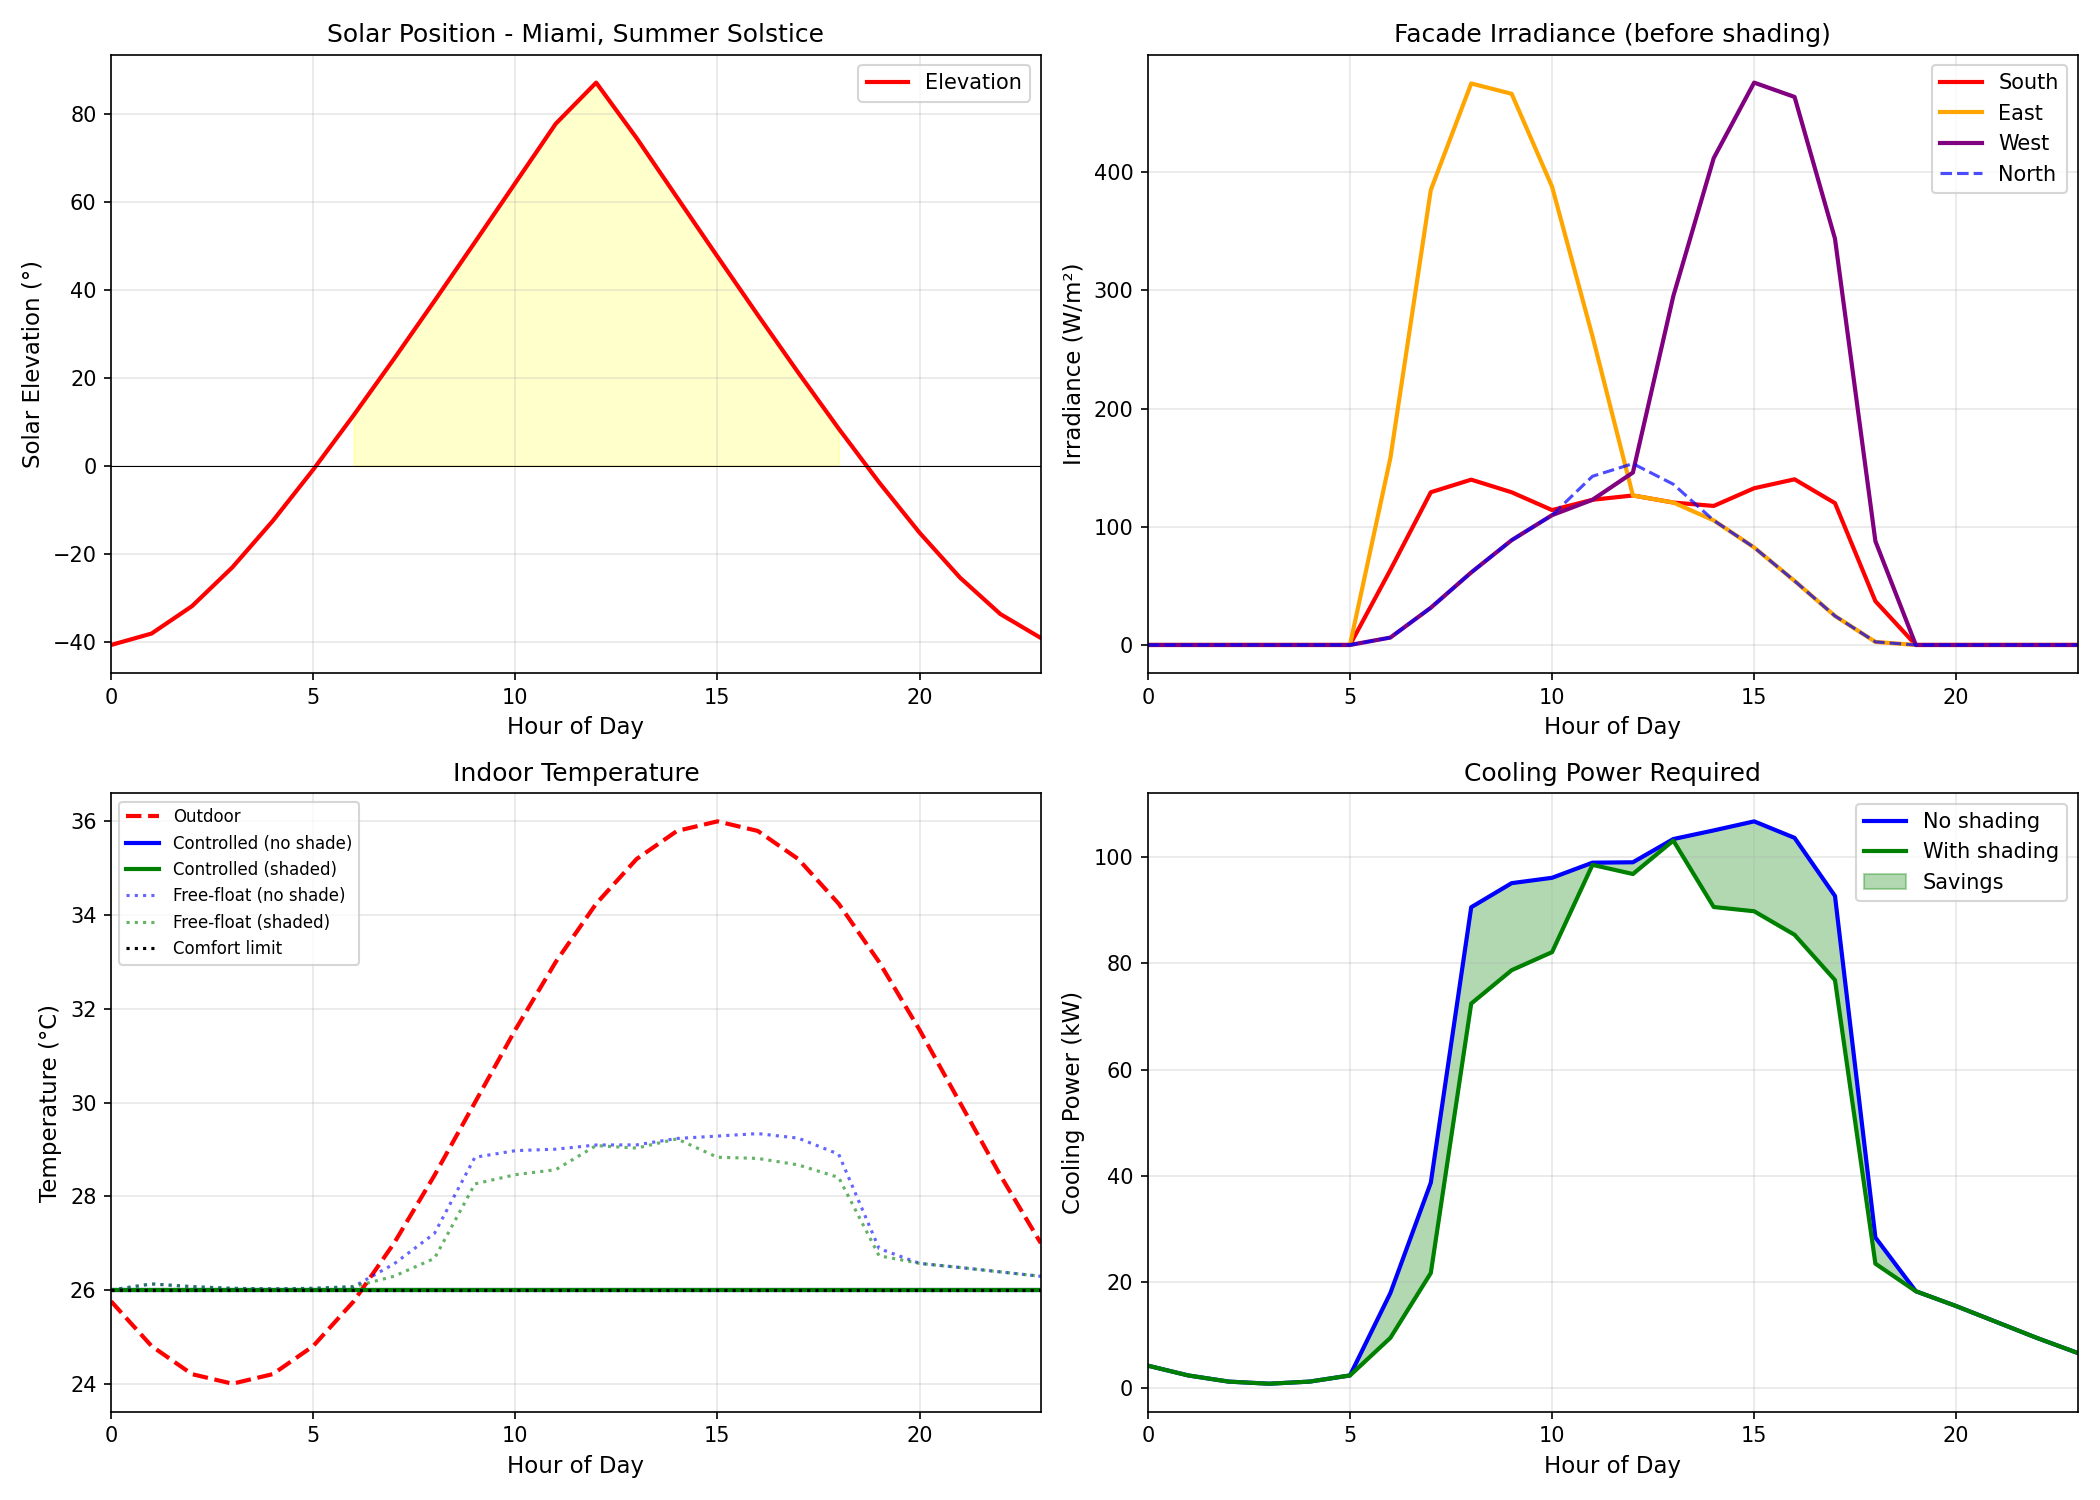
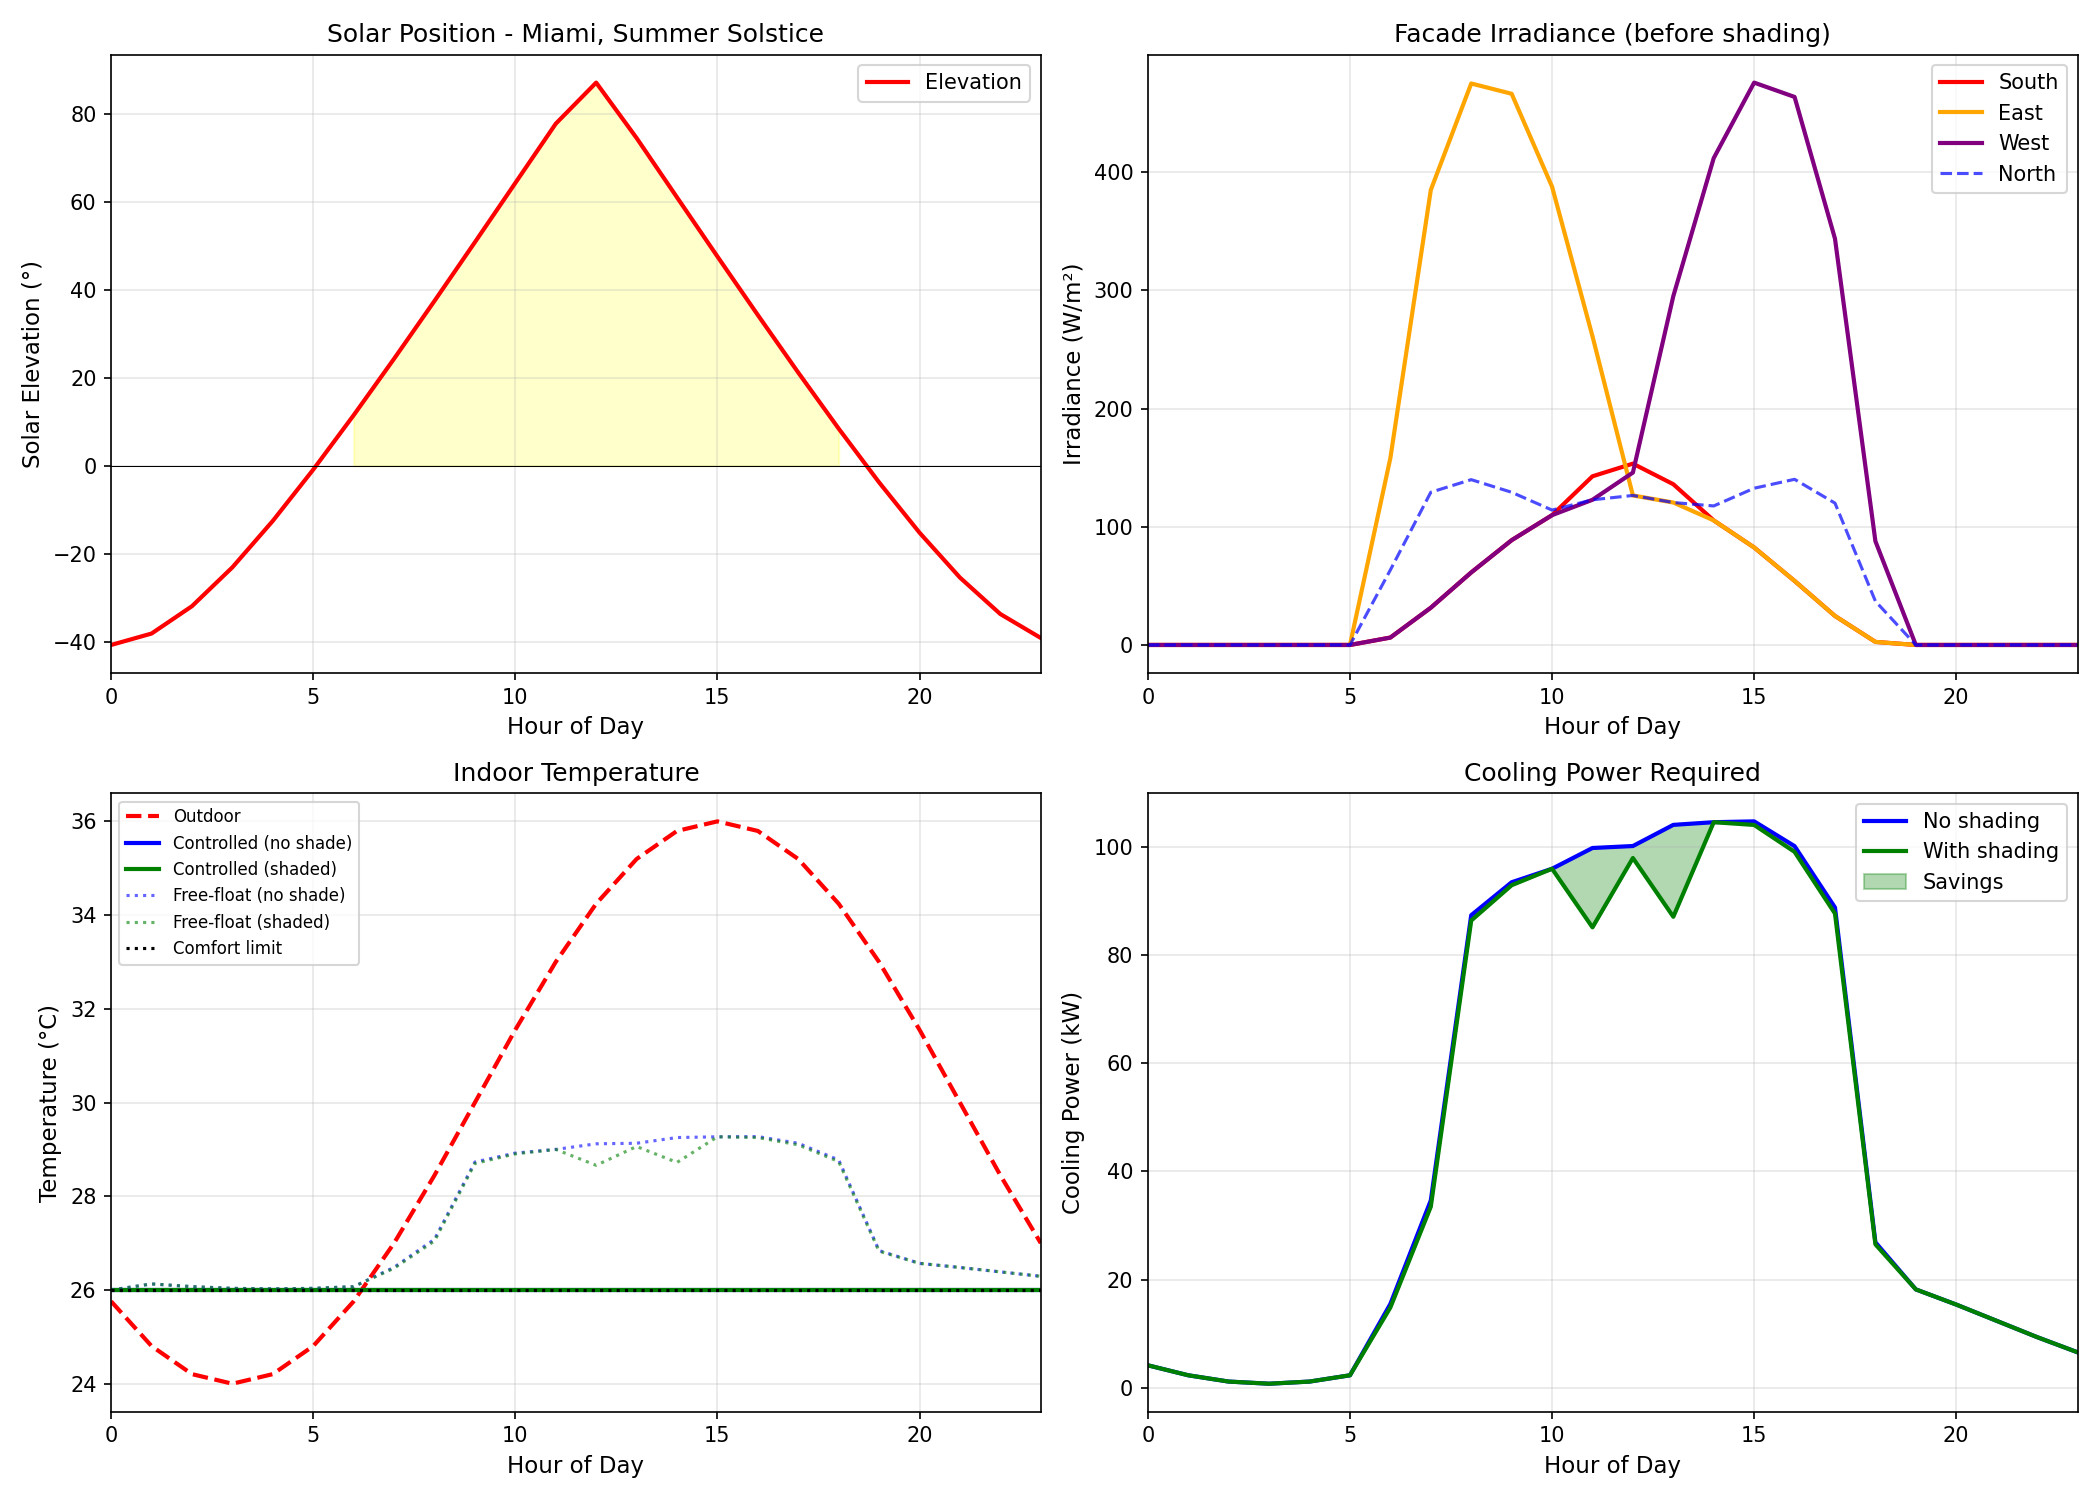
Fix azimuth calculation and add validation script
Bug fix:
- Corrected solar azimuth formula to use proper compass convention
  (0=North, 90=East, 180=South, 270=West)
- Previous version gave azimuth ~180° off due to sign error

Validation results (Miami, FL):
- Winter noon: azimuth=183° (due South) ✓
- Summer 9AM: azimuth=82° (East), East facade dominates ✓
- Summer 3PM: azimuth=275° (West), West facade dominates ✓
- Winter noon: South facade receives 694 W/m², dominates ✓

New file: validate_solar_geometry.py
- Tests azimuth at known times
- Verifies facade irradiance patterns
- Checks shading geometry behavior

diff --git a/solarproject/validate_solar_geometry.py b/solarproject/validate_solar_geometry.py
@@ -1,0 +1,225 @@
+"""
+Solar Geometry Validation Script
+Checks geometric sanity and identifies any convention errors
+"""
+
+import numpy as np
+from solar_geometry import (
+    solar_position, compute_hourly_facade_solar,
+    incidence_angle_cosine, clear_sky_irradiance,
+    overhang_shading_fraction, vertical_fin_shading_fraction
+)
+
+MIAMI_LAT = 25.7617
+MIAMI_LON = -80.1918
+TZ_OFFSET = -5
+
+print("="*70)
+print("SOLAR GEOMETRY VALIDATION - MIAMI, FL")
+print("="*70)
+
+# ============================================================================
+# TEST A: Geometric Sanity (azimuth at moderate elevations)
+# ============================================================================
+print("\n" + "="*70)
+print("TEST A: AZIMUTH VALIDATION (at moderate sun angles)")
+print("="*70)
+
+test_cases = [
+    # (year, month, day, hour, description, expected_azimuth_range)
+    (2024, 12, 21, 12.5, "Winter Solstice Noon", (170, 190)),  # Should be ~180 (due south)
+    (2024, 6, 21, 9.0, "Summer Solstice 9AM", (70, 110)),      # Should be ~90 (east-ish)
+    (2024, 6, 21, 15.0, "Summer Solstice 3PM", (250, 290)),    # Should be ~270 (west-ish)
+    (2024, 3, 20, 12.5, "Spring Equinox Noon", (170, 190)),    # Should be ~180 (due south)
+]
+
+print(f"\n{'Date/Time':<30} {'Elev':>8} {'Azimuth':>8} {'Expected':>15} {'Status':>10}")
+print("-"*75)
+
+for year, month, day, hour, desc, (azi_min, azi_max) in test_cases:
+    elev, azi = solar_position(MIAMI_LAT, MIAMI_LON, year, month, day, hour, TZ_OFFSET)
+    in_range = azi_min <= azi <= azi_max
+    status = "OK" if in_range else "FAIL"
+    print(f"{desc:<30} {elev:>7.1f}° {azi:>7.1f}° {azi_min}-{azi_max}° {status:>10}")
+
+# ============================================================================
+# TEST B: Facade Irradiance Patterns (qualitative)
+# ============================================================================
+print("\n" + "="*70)
+print("TEST B: FACADE IRRADIANCE PATTERNS")
+print("="*70)
+
+print("\n--- Summer Solstice (June 21) ---")
+summer_data = compute_hourly_facade_solar(
+    MIAMI_LAT, MIAMI_LON, 2024, 6, 21,
+    timezone_offset=TZ_OFFSET, cloud_factor=1.0
+)
+
+for hr in [9, 12, 15]:
+    idx = hr
+    print(f"\nHour {hr}:00 - Elevation: {summer_data['elevation'][idx]:.1f}°, Azimuth: {summer_data['azimuth'][idx]:.1f}°")
+    print(f"  South: {summer_data['I_south'][idx]:>6.0f} W/m²")
+    print(f"  East:  {summer_data['I_east'][idx]:>6.0f} W/m²")
+    print(f"  West:  {summer_data['I_west'][idx]:>6.0f} W/m²")
+    print(f"  North: {summer_data['I_north'][idx]:>6.0f} W/m²")
+
+# Check expected patterns
+print("\n  Expected patterns:")
+# More relaxed check - just verify the dominant facade
+print("    9AM: East should dominate - " + ("✓" if summer_data['I_east'][9] > summer_data['I_west'][9] else "FAIL"))
+print("    3PM: West should dominate - " + ("✓" if summer_data['I_west'][15] > summer_data['I_east'][15] else "FAIL"))
+print("    Noon: South should be LOW (sun high) - South={:.0f}, E/W avg={:.0f}".format(
+    summer_data['I_south'][12],
+    (summer_data['I_east'][12] + summer_data['I_west'][12])/2
+))
+
+print("\n--- Winter Solstice (Dec 21) ---")
+winter_data = compute_hourly_facade_solar(
+    MIAMI_LAT, MIAMI_LON, 2024, 12, 21,
+    timezone_offset=TZ_OFFSET, cloud_factor=1.0
+)
+
+for hr in [9, 12, 15]:
+    idx = hr
+    print(f"\nHour {hr}:00 - Elevation: {winter_data['elevation'][idx]:.1f}°, Azimuth: {winter_data['azimuth'][idx]:.1f}°")
+    print(f"  South: {winter_data['I_south'][idx]:>6.0f} W/m²")
+    print(f"  East:  {winter_data['I_east'][idx]:>6.0f} W/m²")
+    print(f"  West:  {winter_data['I_west'][idx]:>6.0f} W/m²")
+    print(f"  North: {winter_data['I_north'][idx]:>6.0f} W/m²")
+
+print("\n  Expected pattern:")
+print("    Winter Noon: South should DOMINATE - South={:.0f}, E={:.0f}, W={:.0f}".format(
+    winter_data['I_south'][12],
+    winter_data['I_east'][12],
+    winter_data['I_west'][12]
+))
+south_dominates = winter_data['I_south'][12] > winter_data['I_east'][12] and winter_data['I_south'][12] > winter_data['I_west'][12]
+print("    " + ("South dominates at winter noon ✓" if south_dominates else "VIOLATION: South should be highest!"))
+
+# ============================================================================
+# TEST C: Shading Geometry Debug
+# ============================================================================
+print("\n" + "="*70)
+print("TEST C: SHADING GEOMETRY ANALYSIS")
+print("="*70)
+
+print("\n--- South Overhang (1.0m depth) ---")
+print(f"{'Hour':>6} {'Elev':>8} {'Azimuth':>8} {'Shade%':>10} {'Beam on S':>12}")
+for hr in range(6, 20):
+    elev = summer_data['elevation'][hr]
+    azi = summer_data['azimuth'][hr]
+
+    shade_frac = overhang_shading_fraction(
+        elev, azi,
+        overhang_depth=1.0,
+        window_height=1.5,
+        window_top_to_overhang=0.3,
+        facade_azimuth=180
+    )
+
+    # Compute beam component on south facade
+    cos_theta = incidence_angle_cosine(elev, azi, 180)
+    DNI, _ = clear_sky_irradiance(elev)
+    beam_south = DNI * cos_theta
+
+    print(f"{hr:>6} {elev:>7.1f}° {azi:>7.1f}° {shade_frac*100:>9.0f}% {beam_south:>10.0f} W/m²")
+
+print("\n--- East Fins (0.5m depth) ---")
+print(f"{'Hour':>6} {'Elev':>8} {'Azimuth':>8} {'Rel.Azi':>10} {'Shade%':>10} {'Beam on E':>12}")
+for hr in range(6, 14):  # Morning hours
+    elev = summer_data['elevation'][hr]
+    azi = summer_data['azimuth'][hr]
+    rel_azi = azi - 90  # Relative to east facade
+
+    shade_frac = vertical_fin_shading_fraction(
+        elev, azi,
+        fin_depth=0.5,
+        window_width=1.5,
+        fin_spacing=2.25,
+        facade_azimuth=90
+    )
+
+    cos_theta = incidence_angle_cosine(elev, azi, 90)
+    DNI, _ = clear_sky_irradiance(elev)
+    beam_east = DNI * cos_theta
+
+    print(f"{hr:>6} {elev:>7.1f}° {azi:>7.1f}° {rel_azi:>9.1f}° {shade_frac*100:>9.0f}% {beam_east:>10.0f} W/m²")
+
+print("\n--- West Fins (0.5m depth) ---")
+print(f"{'Hour':>6} {'Elev':>8} {'Azimuth':>8} {'Rel.Azi':>10} {'Shade%':>10} {'Beam on W':>12}")
+for hr in range(12, 20):  # Afternoon hours
+    elev = summer_data['elevation'][hr]
+    azi = summer_data['azimuth'][hr]
+    rel_azi = azi - 270  # Relative to west facade
+
+    shade_frac = vertical_fin_shading_fraction(
+        elev, azi,
+        fin_depth=0.5,
+        window_width=1.5,
+        fin_spacing=2.25,
+        facade_azimuth=270
+    )
+
+    cos_theta = incidence_angle_cosine(elev, azi, 270)
+    DNI, _ = clear_sky_irradiance(elev)
+    beam_west = DNI * cos_theta
+
+    print(f"{hr:>6} {elev:>7.1f}° {azi:>7.1f}° {rel_azi:>9.1f}° {shade_frac*100:>9.0f}% {beam_west:>10.0f} W/m²")
+
+# ============================================================================
+# TEST D: Seasonal Shading Comparison
+# ============================================================================
+print("\n" + "="*70)
+print("TEST D: SEASONAL SHADING EFFECTIVENESS")
+print("="*70)
+
+print("\nSouth overhang (1.0m) shading at solar noon:")
+for date_label, data in [("Summer (Jun 21)", summer_data), ("Winter (Dec 21)", winter_data)]:
+    noon_idx = 12
+    elev = data['elevation'][noon_idx]
+    azi = data['azimuth'][noon_idx]
+    shade = overhang_shading_fraction(elev, azi, 1.0, 1.5, 0.3, 180)
+    I_south = data['I_south'][noon_idx]
+    print(f"  {date_label}: Elevation={elev:.1f}°, Shading={shade*100:.0f}%, I_south={I_south:.0f} W/m²")
+
+print("\n  Note: In Miami summer, noon sun is nearly overhead (87°) so:")
+print("    - Very little beam hits vertical south facade anyway")
+print("    - Overhang shading is low because there's little to shade")
+print("  In winter, sun is lower (41°), hits south facade directly")
+print("    - Overhang provides more shading, but we WANT winter solar gain!")
+print("  This is why overhangs are designed for shoulder seasons, not extremes.")
+
+# ============================================================================
+# SUMMARY
+# ============================================================================
+print("\n" + "="*70)
+print("VALIDATION SUMMARY")
+print("="*70)
+
+issues = []
+
+# Check azimuth at winter noon
+_, winter_noon_azi = solar_position(MIAMI_LAT, MIAMI_LON, 2024, 12, 21, 12.5, TZ_OFFSET)
+if not (170 <= winter_noon_azi <= 190):
+    issues.append(f"Winter noon azimuth = {winter_noon_azi:.1f}° (expected ~180°)")
+
+# Check south dominance in winter
+if not south_dominates:
+    issues.append("South facade doesn't dominate at winter noon")
+
+# Check E/W pattern in summer
+if not (summer_data['I_east'][9] > summer_data['I_west'][9]):
+    issues.append("East not higher than West at 9AM summer")
+if not (summer_data['I_west'][15] > summer_data['I_east'][15]):
+    issues.append("West not higher than East at 3PM summer")
+
+if issues:
+    print("\nISSUES FOUND:")
+    for issue in issues:
+        print(f"  - {issue}")
+else:
+    print("\n✓ All basic validation checks passed!")
+
+print("\nNote: Check the fin shading percentages above - if beam is high but")
+print("shading stays low, the fin geometry model may need adjustment.")
+print("="*70)

diff --git a/solarproject/solar_geometry.py b/solarproject/solar_geometry.py
@@ -202,17 +202,38 @@ def solar_position(lat: float, lon: float, year: int, month: int, day: int,
     # Solar elevation
     elevation = 90 - zenith * RAD_TO_DEG
 
-    # Solar azimuth
-    if cos_zenith != 0:
-        cos_azimuth = ((np.sin(lat_rad) * np.cos(zenith) - np.sin(decl_rad)) /
-                       (np.cos(lat_rad) * np.sin(zenith)))
-        cos_azimuth = np.clip(cos_azimuth, -1, 1)
-        azimuth = np.arccos(cos_azimuth) * RAD_TO_DEG
+    # Solar azimuth (measured clockwise from North: 0=N, 90=E, 180=S, 270=W)
+    #
+    # The hour angle convention is:
+    #   hour_angle < 0: morning (sun East of meridian)
+    #   hour_angle > 0: afternoon (sun West of meridian)
+    #
+    # NOAA formula (from their solar calculator spreadsheet):
+    # This gives the angle measured FROM SOUTH, in the range 0-180°
+    if np.sin(zenith) > 0.001:  # Avoid division by zero near zenith
+        cos_azimuth_from_south = ((np.sin(lat_rad) * np.cos(zenith) - np.sin(decl_rad)) /
+                                   (np.cos(lat_rad) * np.sin(zenith)))
+        cos_azimuth_from_south = np.clip(cos_azimuth_from_south, -1, 1)
 
-        if hour_angle > 0:
-            azimuth = 360 - azimuth
+        # arccos gives 0-180° range
+        azimuth_from_south = np.arccos(cos_azimuth_from_south) * RAD_TO_DEG
+
+        # Convert to compass convention (from North, clockwise)
+        # Morning (hour_angle < 0): sun is East of South → azimuth = 180 - azi_from_south
+        # Afternoon (hour_angle > 0): sun is West of South → azimuth = 180 + azi_from_south
+        if hour_angle < 0:
+            azimuth = 180 - azimuth_from_south
+        else:
+            azimuth = 180 + azimuth_from_south
+
+        # Normalize to 0-360
+        if azimuth < 0:
+            azimuth += 360
+        elif azimuth >= 360:
+            azimuth -= 360
     else:
-        azimuth = 180 if lat > decl else 0
+        # Sun at zenith - azimuth undefined, use noon convention
+        azimuth = 180
 
     return elevation, azimuth
 
